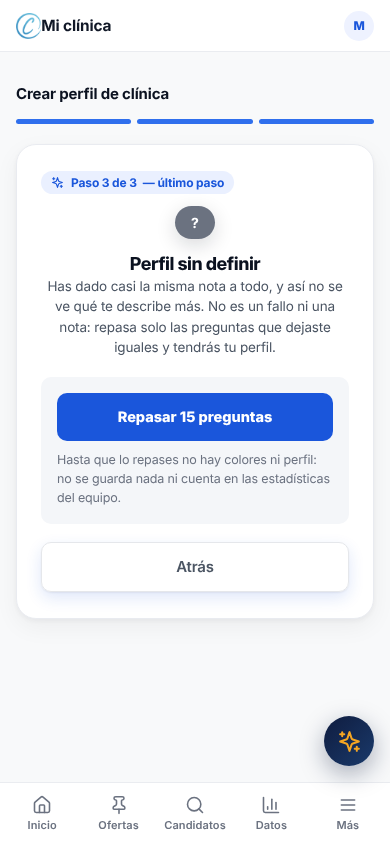
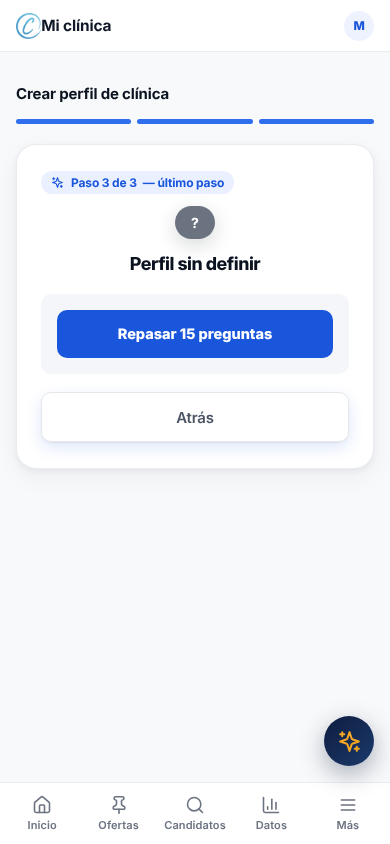
Arreglo: «Perfil sin definir» enseña solo la frase y la opción de repasar
Fuera los párrafos de explicación («Has dado casi la misma nota…», «Qué hacer
ahora», «Hasta que lo repases…») en los dos lados. Se mantienen los botones
para salir («Ahora no» / «Atrás»). Cuando el resultado sí tiene perfil, todo
se ve como antes.

Claude-Session: https://claude.ai/code/session_01L5qSpH5ECCjMh1xfSpjWDJ

Changed region(s): [[0.1231, 0.4621, 0.8615, 0.6161], [0.1231, 0.3389, 0.8615, 0.4313], [0.4615, 0.6469, 0.5538, 0.6777]]

diff --git a/index.html b/index.html
@@ -4502,6 +4502,7 @@ function CERCO_discRepasar(ctx){
   window.scrollTo(0,0);
 }
 function CERCO_discConPerfil(ctx){
+  var dsc = document.getElementById('result-desc-'+ctx); if(dsc) dsc.style.display = '';
   var bars = document.getElementById('bars-container-'+ctx); if(bars) bars.style.display = '';
   var fin = document.querySelector('#screen-results-'+ctx+' button[onclick*="saveCompanyToStorage"]'); if(fin) fin.style.display = '';
   var b = document.getElementById('btn-guardar-'+ctx); if(b) b.style.display = '';
@@ -4516,13 +4517,13 @@ function CERCO_discSinPerfil(ctx, r){
   var g = function(id){ return document.getElementById(id+'-'+ctx); };
   var badge = g('badge'); if(badge){ badge.style.background = '#6B7280'; badge.textContent = '?'; }
   if(g('result-name')) g('result-name').textContent = 'Perfil sin definir';
-  if(g('result-desc')) g('result-desc').textContent = 'Has dado casi la misma nota a todo, y así no se ve qué te describe más. No es un fallo ni una nota: repasa solo las preguntas que dejaste iguales y tendrás tu perfil.';
+  // Solo la frase «Perfil sin definir» y la opción de repasar (sin párrafo de explicación)
+  if(g('result-desc')){ g('result-desc').textContent = ''; g('result-desc').style.display = 'none'; }
   var bars = g('bars-container'); if(bars){ bars.innerHTML = ''; bars.style.display = 'none'; }
   var n = _discPlanas(ctx).length, inv = false; try{ inv = !!(window.esModoInvitado && esModoInvitado()); }catch(x){}
   var caja = g('insight-box');
   if(caja) caja.innerHTML = '<button type="button" onclick="CERCO_discRepasar(\''+ctx+'\')" style="width:100%;background:#1A56DB;color:#fff;border:none;border-radius:10px;padding:13px;font:inherit;font-size:14.5px;font-weight:800;cursor:pointer;">'+(n ? 'Repasar '+n+' pregunta'+(n === 1 ? '' : 's')+(n <= 8 ? ' · 2 minutos' : '') : 'Repasar mis respuestas')+'</button>'
-    + (inv || ctx === 'onboarding' ? '' : '<button type="button" onclick="showScreen(\'inicio\')" style="width:100%;margin-top:8px;background:#fff;color:#374151;border:1px solid #E5E7EB;border-radius:10px;padding:12px;font:inherit;font-size:13.5px;font-weight:700;cursor:pointer;">Ahora no</button>')
-    + '<div style="font-size:12.5px;color:#6B7280;line-height:1.5;margin-top:10px;">Hasta que lo repases no hay colores ni perfil: no se guarda nada ni cuenta en las estadísticas del equipo.</div>';
+    + (inv || ctx === 'onboarding' ? '' : '<button type="button" onclick="showScreen(\'inicio\')" style="width:100%;margin-top:8px;background:#fff;color:#374151;border:1px solid #E5E7EB;border-radius:10px;padding:12px;font:inherit;font-size:13.5px;font-weight:700;cursor:pointer;">Ahora no</button>');
   if(ctx !== 'onboarding'){
     var b = g('btn-guardar'); if(b) b.style.display = 'none';
     var f = document.querySelector('#screen-results-'+ctx+' .footnote'); if(f) f.style.display = 'none';

diff --git a/candidato.html b/candidato.html
@@ -2623,10 +2623,10 @@ function testSinPerfil(){
   var n = testPlanas().length;
   $('tr-big').style.background = '#6B7280'; $('tr-big').textContent = '?';
   $('tr-nom').textContent = 'Perfil sin definir';
-  $('tr-desc').textContent = 'Has dado casi la misma nota a todo, y así no se ve qué te describe más. No es un fallo ni una nota: repasa solo las preguntas que dejaste iguales y tendrás tu perfil.';
-  $('tr-h').textContent = 'Qué hacer ahora';
-  $('tr-bars').innerHTML = '<div class="hint" style="margin:0 0 4px;">Hasta que lo repases no hay colores ni perfil, y no puedes enviar solicitudes.</div>'
-    + '<button type="button" class="btn btn-p btn-block" style="margin-top:12px;" onclick="testRepasar()">'+(n ? 'Repasar '+n+' pregunta'+(n === 1 ? '' : 's')+(n <= 8 ? ' · 2 minutos' : '') : 'Repasar mis respuestas')+'</button>';
+  // Solo la frase «Perfil sin definir» y la opción de repasar (sin párrafos de explicación)
+  $('tr-desc').textContent = ''; $('tr-desc').style.display = 'none';
+  $('tr-h').style.display = 'none';
+  $('tr-bars').innerHTML = '<button type="button" class="btn btn-p btn-block" onclick="testRepasar()">'+(n ? 'Repasar '+n+' pregunta'+(n === 1 ? '' : 's')+(n <= 8 ? ' · 2 minutos' : '') : 'Repasar mis respuestas')+'</button>';
   $('tr-btn').textContent = 'Ahora no'; $('tr-btn').className = 'btn btn-block';
   error('tr-err', '');
   $('t-preg').style.display = 'none'; $('t-res').style.display = '';
@@ -2644,8 +2644,8 @@ function testSeguir(){
   var d = T.res;
   $('tr-big').style.background = COLOR[d.dom]; $('tr-big').textContent = d.dom;
   $('tr-nom').textContent = NOMBRE[d.dom] + ' con rasgo ' + NOMBRE[d.sec].toLowerCase();
-  $('tr-desc').textContent = DESC[d.dom];
-  $('tr-bars').innerHTML = barras(d.norm); $('tr-h').textContent = 'Cómo te repartes'; $('tr-btn').className = 'btn btn-p btn-block';
+  $('tr-desc').textContent = DESC[d.dom]; $('tr-desc').style.display = '';
+  $('tr-bars').innerHTML = barras(d.norm); $('tr-h').textContent = 'Cómo te repartes'; $('tr-h').style.display = ''; $('tr-btn').className = 'btn btn-p btn-block';
   $('tr-btn').textContent = T.repetir ? 'Guardar resultado' : 'Ir a mi panel';
   error('tr-err', '');
   $('t-preg').style.display = 'none'; $('t-res').style.display = '';

diff --git a/pruebas/e2e/10-recorrido.spec.js b/pruebas/e2e/10-recorrido.spec.js
@@ -171,7 +171,10 @@ test('4. La profesional se registra y hace el test («sin perfil» y después su
   // Primero lo contesta todo con la misma nota → no hay perfil
   await A.contestarTestProfesional(page, { plano: true });
   await seVe(page, 'Perfil sin definir', { exact: true });
-  await seVe(page, 'Hasta que lo repases no hay colores ni perfil, y no puedes enviar solicitudes.');
+  // Solo la frase y la opción de repasar: sin párrafos de explicación
+  await expect(page.locator('#tr-desc')).toBeHidden();
+  await expect(page.locator('#tr-h')).toBeHidden();
+  await expect(page.locator('body')).not.toContainText('Has dado casi la misma nota');
   await expect(page.getByText('Concienzudo (C)')).toHaveCount(0); // sin barras ni porcentajes
   await capturar(page, 'pro-07-test-sin-perfil');
 

diff --git a/pruebas/e2e/20-test-plano-clinica.spec.js b/pruebas/e2e/20-test-plano-clinica.spec.js
@@ -20,6 +20,8 @@ test('Clínica: resultado plano → «Perfil sin definir»', async ({ browser },
   await expect(res).not.toContainText('%');                                    // sin porcentajes
   await expect(res.getByRole('button', { name: 'Finalizar' })).toBeHidden();   // no se puede terminar
   await expect(res.getByRole('button', { name: /Repasar/ })).toBeVisible();    // solo repasar
+  await expect(page.locator('#result-desc-onboarding')).toBeHidden();         // sin párrafo de explicación
+  await expect(res).not.toContainText('Hasta que lo repases');
   await capturar(page, 'clinica-21-test-perfil-sin-definir');
   await context.close();
 });
